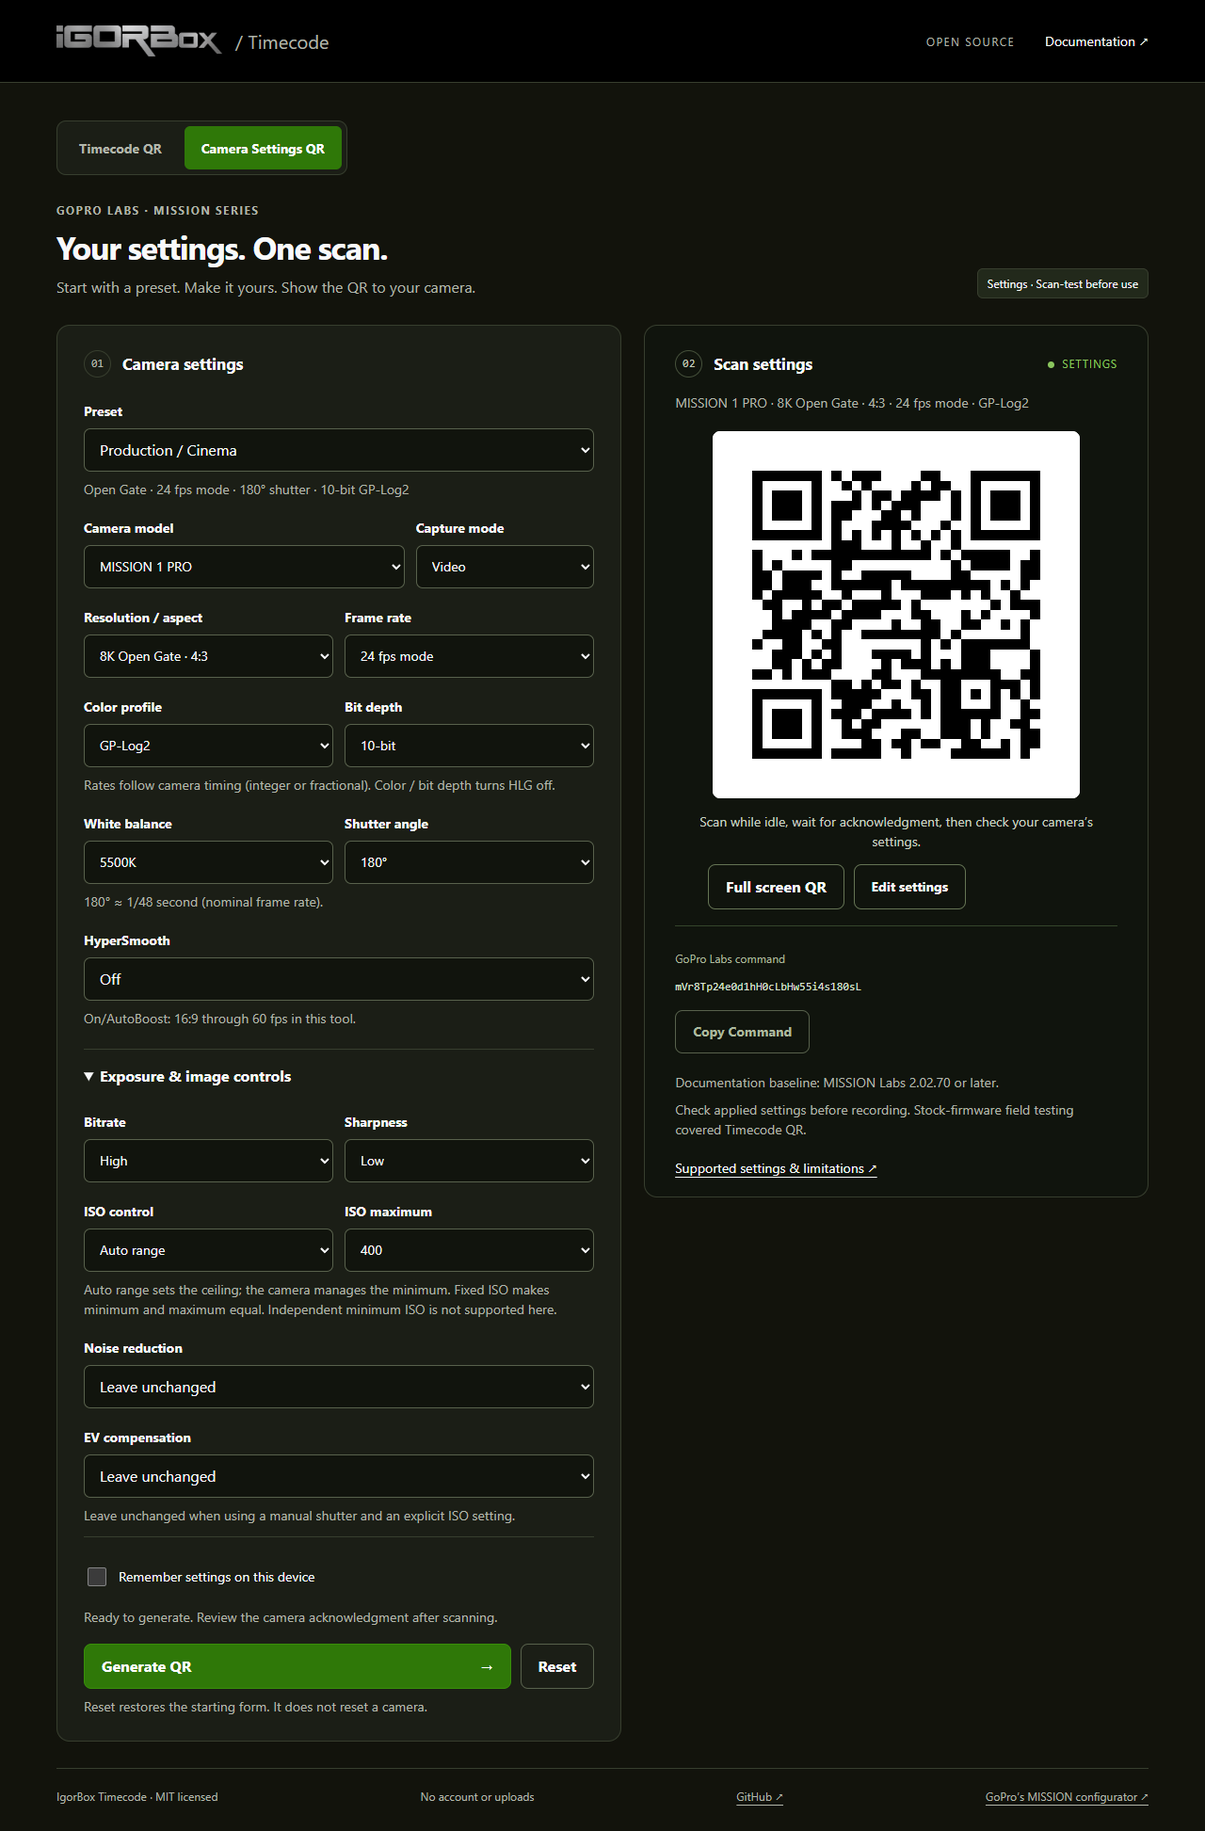
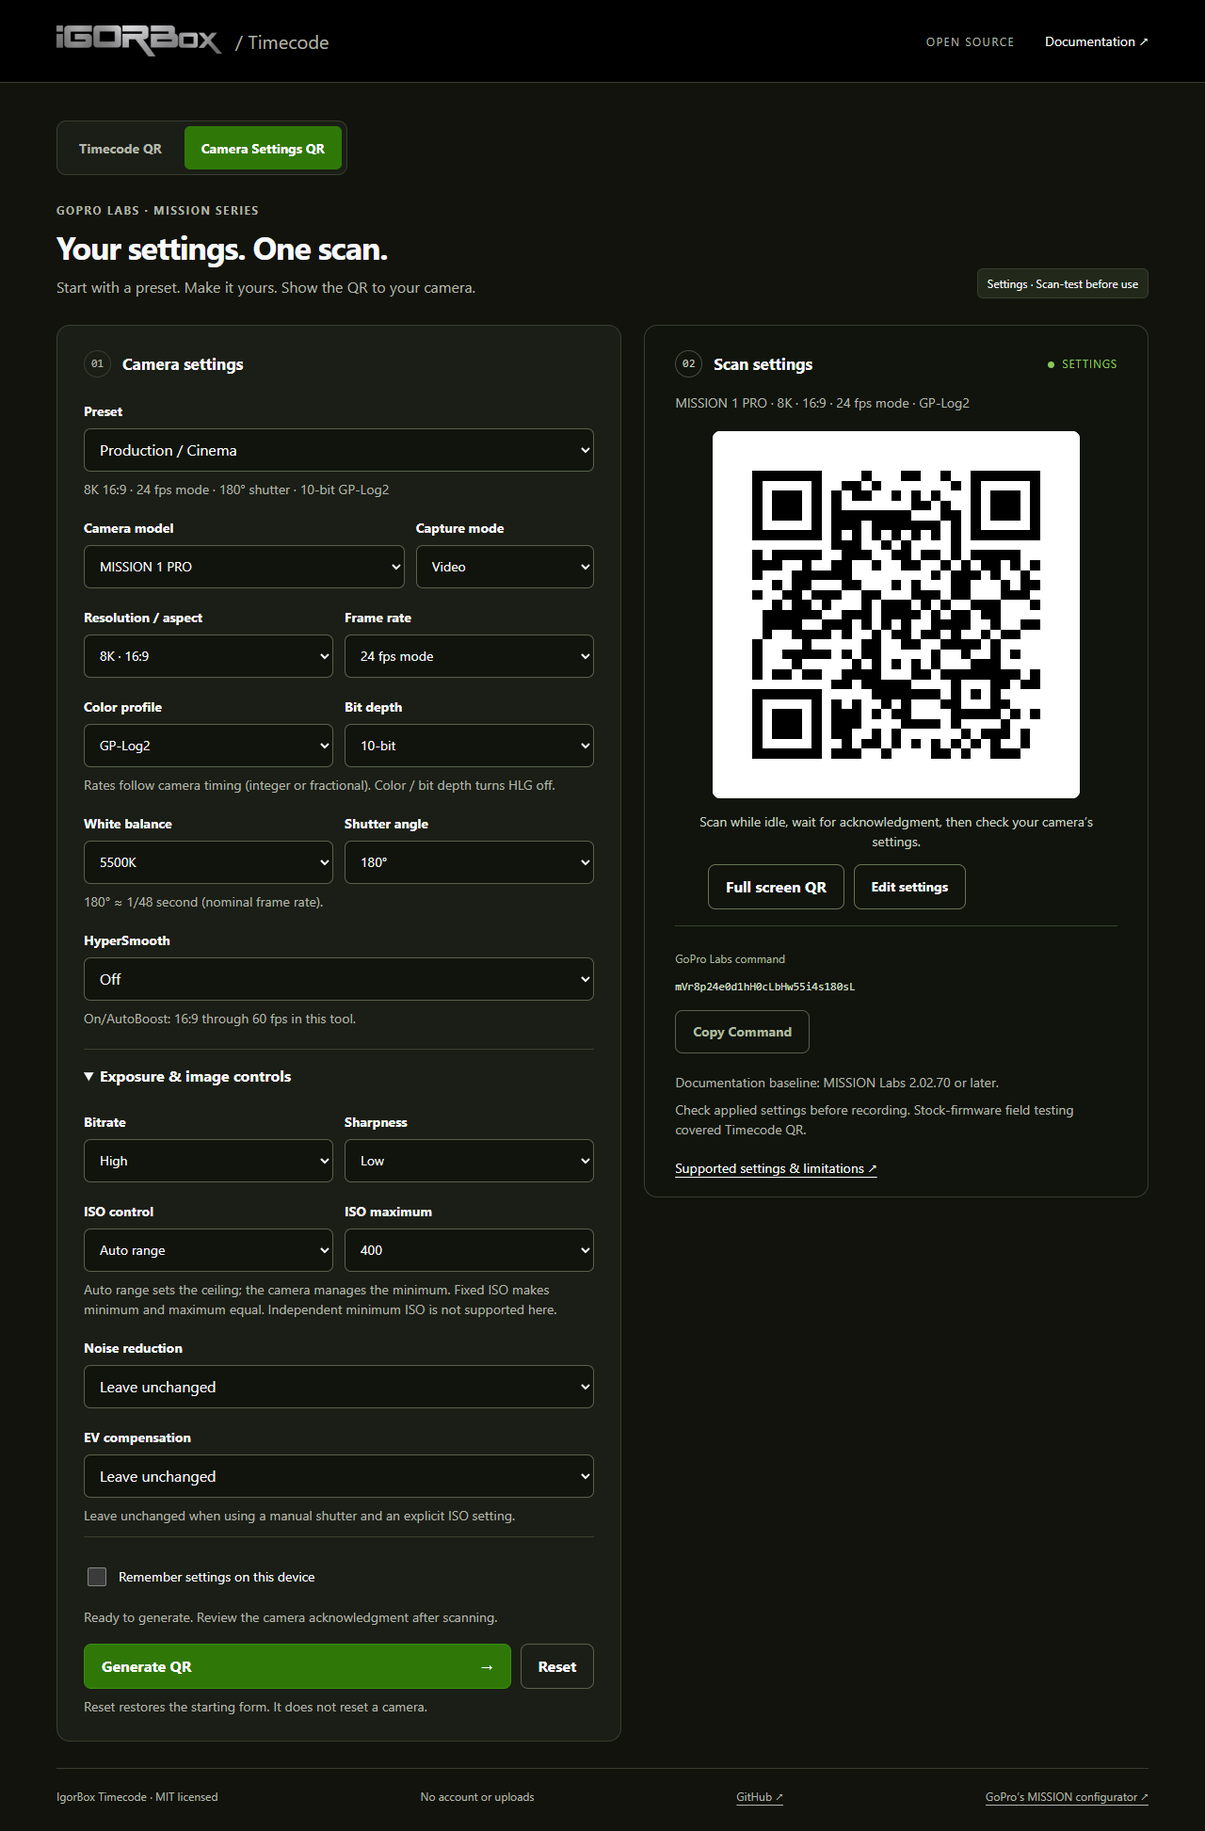
Default camera presets to 16:9 and clarify ILS lens support

diff --git a/public/guide.html b/public/guide.html
@@ -85,14 +85,15 @@
   <h2 id="camera-settings">Camera Settings QR</h2>
   <p><a href="./settings.html">Open Camera Settings QR</a> to configure a MISSION 1, MISSION 1 PRO or MISSION 1 PRO ILS. This is a separate tool: it changes capture settings, while Timecode QR sets the clock. Configure capture first, then jam timecode.</p>
   <ol>
-    <li>Choose your exact camera model and a starter preset. Production / Cinema uses 8K Open Gate on PRO models and 4K Open Gate on MISSION 1. Run &amp; Gun, Slow Motion and High Frame Rate start at 4K30, 4K60 and 4K120. Custom starts with video mode only.</li>
+    <li>Choose your exact camera model and a starter preset. All defaults use 16:9: Production / Cinema starts at 8K24; Run &amp; Gun at 8K30; Slow Motion at 4K60; and High Frame Rate at 4K120. Custom starts at 4K30 with other fields unchanged. Open Gate remains an editable option on supported models.</li>
     <li>Edit any field. “Leave unchanged” omits it from the command. Fields stay editable after selecting a preset; your first edit changes the preset label to Custom. Unsupported resolution/rate pairs block generation.</li>
     <li>Use Exposure &amp; image controls for ISO, bitrate, sharpness, EV and noise reduction. All four video presets use 10-bit GP-Log2, high bitrate and low sharpness. Run &amp; Gun uses auto white balance; the other presets use 5500K.</li>
     <li>Press Generate QR, show it to an idle camera, and check the applied settings on the camera. Full screen QR enlarges the view. Copy Command copies the exact text; on browsers without clipboard access it selects the text for manual copying. Editing any field clears the old QR.</li>
   </ol>
   <p><strong>Frame rate and shutter:</strong> the rate menu sends GoPro’s camera-mode labels, such as <code>p24</code>. Actual capture can be integer or fractional according to the camera’s existing timing settings. The tool does not change ALLI/24HZ. The supported <code>s180</code> shutter-angle command corresponds to approximately 1/48, 1/120 or 1/240 second at nominal 24, 60 or 120 fps. Set exact integer timing on the camera if required, then confirm a test clip’s metadata.</p>
   <p><strong>ISO and color:</strong> MISSION’s documented standard controls offer an auto ISO ceiling or fixed ISO. A separate minimum ISO is not sent. GP-Log2 requires an explicit 10-bit selection. Setting color or bit depth also sends <code>hH0</code> to turn HLG off. EV is omitted from the presets and cannot be combined here with a manual shutter and an explicit ISO selection.</p>
-  <p><strong>Coverage:</strong> the app supports the documented regular resolution/rate pairs through 240 fps. HyperSmooth On/AutoBoost is offered for 16:9 modes through 60 fps; other stabilization combinations are outside this tool’s verified coverage, not necessarily camera limitations. ILS users must confirm a rectilinear prime lens before enabling HyperSmooth. Run &amp; Gun starts with stabilization off on ILS. PRO and ILS share capture-rate definitions, with this separate lens check.</p>
+  <p><strong>Coverage:</strong> the app supports the documented regular resolution/rate pairs through 240 fps. HyperSmooth On/AutoBoost is offered for 16:9 modes through 60 fps; other stabilization combinations are outside this tool’s verified coverage, not necessarily camera limitations. ILS users must confirm a supported lens and its camera setup before enabling HyperSmooth. Run &amp; Gun starts with stabilization off on ILS. PRO and ILS share capture-rate definitions, with this separate lens check.</p>
+  <p id="ils-lenses"><strong>ILS lens compatibility:</strong> the checkbox is only for MISSION 1 PRO ILS and confirms that your interchangeable lens is supported for HyperSmooth. It does not configure a lens profile. “Rectilinear” means straight lines remain straight rather than having a fisheye projection; “prime” means a fixed focal length rather than a zoom. GoPro’s current <a href="https://investor.gopro.com/press-releases/press-release-details/2026/GoPro-Launches-MISSION-1-PRO-ILS-the-Worlds-Smallest-Most-Rugged-Compact-Cinema-Camera-with-Interchangeable-Lenses/default.aspx">ILS lens guidance, footnote 3</a> lists rectilinear MFT lenses from 6–500mm (tested up to 50mm, with performance beyond that varying) and five profiled fisheyes: Laowa 4mm f/2.8, 7Artisans 6mm f/2, 7Artisans 7.5mm f/2.8, Brightin Star 7.5mm f/2.8 and Meike 7.5mm f/2.8. Check the guidance and configure your lens on-camera before enabling stabilization.</p>
   <p><strong>Photo:</strong> switching to Photo exposes RAW output, white balance and EV only. Video controls are hidden and not emitted. Set photo resolution, shutter and ISO on the camera. Returning to Video restores the draft form and leaves the QR off.</p>
   <p><strong>Firmware and scope:</strong> command research was checked on 11 September 2026 against GoPro’s <a href="https://gopro.github.io/labs/control/mission/">MISSION configurator</a>, <a href="https://gopro.github.io/labs/control/settings/">settings reference</a>, <a href="https://gopro.com/en/us/shop/buy-cameras/mission-1-series">model specifications</a> and <a href="https://gopro.github.io/labs/control/notes/">release notes</a>. The documented baseline is MISSION Labs 2.02.70 or later, or ILS Labs 3.00.70 or later. The earlier successful stock-firmware shoot verified Timecode QR; the new settings tool has software and browser validation and needs a camera scan test. This does not mean stock firmware rejects all settings commands.</p>
   <p>Max/custom Mbps bitrate, HLG-on profiles, direct shutter-speed extensions, experimental independent ISO limits, generic HERO/MAX profiles, burst/480+ fps modes and camera factory-reset commands are omitted. Their mode-specific behavior is not covered reliably here. In particular, the ILS release notes removed EXPQ/EXPN/EXPX while broken. The tool sends no record, erase, network, date/time, calibration or persistent metadata commands.</p>

diff --git a/public/settings-presets.js b/public/settings-presets.js
@@ -5,19 +5,18 @@
 })(typeof globalThis !== 'undefined' ? globalThis : this, function (C) {
   'use strict';
   const definitions = Object.freeze({
-    cinema: Object.freeze({ label: 'Production / Cinema', description: 'Open Gate · 24 fps mode · 180° shutter · 10-bit GP-Log2', settings: Object.freeze({ resolution: '8k-open', frameRate: '24', whiteBalance: '5500', shutter: '180', isoMax: '400', stabilization: 'off' }) }),
-    run: Object.freeze({ label: 'Run & Gun', description: '4K30 with automatic exposure, auto white balance and stabilization.', settings: Object.freeze({ resolution: '4k', frameRate: '30', whiteBalance: 'auto', shutter: 'auto', isoMax: '1600', stabilization: 'on' }) }),
+    cinema: Object.freeze({ label: 'Production / Cinema', description: '8K 16:9 · 24 fps mode · 180° shutter · 10-bit GP-Log2', settings: Object.freeze({ resolution: '8k', frameRate: '24', whiteBalance: '5500', shutter: '180', isoMax: '400', stabilization: 'off' }) }),
+    run: Object.freeze({ label: 'Run & Gun', description: '8K30 16:9 with automatic exposure, auto white balance and stabilization.', settings: Object.freeze({ resolution: '8k', frameRate: '30', whiteBalance: 'auto', shutter: 'auto', isoMax: '1600', stabilization: 'on' }) }),
     slow: Object.freeze({ label: 'Slow Motion', description: '4K60 with 180° shutter (about 1/120 second).', settings: Object.freeze({ resolution: '4k', frameRate: '60', whiteBalance: '5500', shutter: '180', isoMax: '800', stabilization: 'off' }) }),
     high: Object.freeze({ label: 'High Frame Rate', description: '4K120 with 180° shutter (about 1/240 second).', settings: Object.freeze({ resolution: '4k', frameRate: '120', whiteBalance: '5500', shutter: '180', isoMax: '1600', stabilization: 'off' }) }),
-    custom: Object.freeze({ label: 'Custom', description: 'Start with video mode only. Leave a field unchanged to omit it from the QR.', settings: Object.freeze({}) })
+    custom: Object.freeze({ label: 'Custom', description: 'Start at 4K30 16:9; other settings are unchanged.', settings: Object.freeze({ resolution: '4k', frameRate: '30' }) })
   });
   function resolve(id, model) {
     if (!Object.hasOwn(definitions, id) || !Object.hasOwn(C.models, model)) throw new Error('Unknown preset or camera model.');
     const blank = Object.fromEntries(Object.keys(C.options).map(key => [key, null]));
     const settings = { ...blank, mode: 'video', ilsLens: false };
-    if (id === 'custom') return settings;
+    if (id === 'custom') return Object.assign(settings, definitions.custom.settings);
     Object.assign(settings, { bitDepth: '10', colorProfile: 'log2', bitrate: 'high', isoMode: 'range', sharpness: 'low' }, definitions[id].settings);
-    if (id === 'cinema') settings.resolution = C.models[model].cinemaResolution;
     // Stabilization with an ILS requires the user to identify a suitable lens.
     if (C.models[model].ils && id === 'run') settings.stabilization = 'off';
     return settings;

diff --git a/public/settings-capabilities.js b/public/settings-capabilities.js
@@ -13,9 +13,9 @@
   const baseModes = { '8k': low, '4k': fast, '4k-open': fast, '1080': high, '1440': high, '4k-vertical': ['25', '30'], '1080-vertical': ['25', '30', '50', '60'] };
   const proModes = { ...baseModes, '8k': medium, '8k-open': low, '4k': high };
   const models = {
-    'mission-1': { label: 'MISSION 1', modes: baseModes, cinemaResolution: '4k-open', ils: false, firmware: 'MISSION Labs 2.02.70 or later' },
-    'mission-1-pro': { label: 'MISSION 1 PRO', modes: proModes, cinemaResolution: '8k-open', ils: false, firmware: 'MISSION Labs 2.02.70 or later' },
-    'mission-1-pro-ils': { label: 'MISSION 1 PRO ILS', modes: proModes, cinemaResolution: '8k-open', ils: true, firmware: 'ILS Labs 3.00.70 or later' }
+    'mission-1': { label: 'MISSION 1', modes: baseModes, ils: false, firmware: 'MISSION Labs 2.02.70 or later' },
+    'mission-1-pro': { label: 'MISSION 1 PRO', modes: proModes, ils: false, firmware: 'MISSION Labs 2.02.70 or later' },
+    'mission-1-pro-ils': { label: 'MISSION 1 PRO ILS', modes: proModes, ils: true, firmware: 'ILS Labs 3.00.70 or later' }
   };
   // Values are UI identifiers. Only these literal tokens may enter a QR.
   const options = {

diff --git a/public/settings.html b/public/settings.html
@@ -72,7 +72,10 @@
           <div id="camera-stabilization-field">
             <label for="setting-stabilization">HyperSmooth</label><select id="setting-stabilization" data-setting="stabilization"></select>
             <p class="hint" id="camera-stabilization-hint">On/AutoBoost: 16:9 through 60 fps in this tool.</p>
-            <label class="check-label" id="camera-ils-label" hidden><input type="checkbox" id="camera-ils-lens"> ILS lens is a rectilinear prime</label>
+            <div id="camera-ils-label" hidden>
+              <label class="check-label"><input type="checkbox" id="camera-ils-lens" aria-describedby="camera-ils-hint"> My ILS lens is supported for HyperSmooth</label>
+              <p class="hint" id="camera-ils-hint">For the interchangeable-lens ILS only. Confirm your lens and its camera setup against <a href="./guide.html#ils-lenses">GoPro’s supported lens guidance</a>.</p>
+            </div>
           </div>
           <details class="settings-advanced" id="camera-advanced">
             <summary>Exposure &amp; image controls</summary>

diff --git a/public/settings-core.js b/public/settings-core.js
@@ -30,7 +30,7 @@
       if (settings.ev != null && shutter != null && shutter !== 'auto' && isoMode != null) errors.push('EV compensation is not offered with a manual shutter and an explicit ISO setting; leave EV unchanged.');
       if (['on', 'auto'].includes(stabilization)) {
         if (!C.stabilizationCovered(settings)) errors.push('HyperSmooth On/AutoBoost is offered here only for 16:9 modes through 60 fps. Other combinations have not been verified for this tool; choose Off or leave unchanged.');
-        if (C.models[model].ils && settings.ilsLens !== true) errors.push('ILS HyperSmooth requires a rectilinear prime lens. Confirm your lens or select Off.');
+        if (C.models[model].ils && settings.ilsLens !== true) errors.push('Confirm that your ILS lens is supported for HyperSmooth and set up on the camera, or select Off.');
       }
     }
     return errors;

diff --git a/public/settings-app.js b/public/settings-app.js
@@ -78,7 +78,7 @@
   $('camera-mode').addEventListener('change', () => {
     if ($('camera-mode').value === 'photo') {
       videoDraft = { ...settings };
-      settings = { ...P.resolve('custom', model), mode: 'photo', whiteBalance: settings.whiteBalance };
+      settings = { ...P.resolve('custom', model), mode: 'photo', resolution: null, frameRate: null, whiteBalance: settings.whiteBalance };
     } else settings = videoDraft || P.resolve('custom', model);
     preset = 'custom'; changed();
   });

diff --git a/docs/CAMERA_SETTINGS.md b/docs/CAMERA_SETTINGS.md
@@ -7,7 +7,7 @@ Research date: **2026-09-11**. This extension adds a second static page using th
[1 lines of base64/hex data omitted]
 - [Settings reference](https://gopro.github.io/labs/control/settings/) and [command language](https://gopro.github.io/labs/control/tech/) verify token spelling and ordered concatenation. Mode comes first so settings apply to the selected capture mode. Numeric FPS tokens select camera modes; they do not independently select integer versus fractional timing.
 - [MISSION model comparison](https://gopro.com/en/us/shop/buy-cameras/mission-1-series) provides separate MISSION 1 / PRO / PRO ILS resolution-rate lists. These become explicit capability tables, not a maximum-rate heuristic. Vertical modes are also present in the official MISSION configurator.
-- [MISSION PRO ILS announcement](https://investor.gopro.com/press-releases/press-release-details/2026/GoPro-Launches-MISSION-1-PRO-ILS-the-Worlds-Smallest-Most-Rugged-Compact-Cinema-Camera-with-Interchangeable-Lenses/default.aspx) documents HyperSmooth with rectilinear prime lenses. ILS shares the PRO capture table but has a separate lens confirmation rule.
+- [MISSION PRO ILS announcement](https://investor.gopro.com/press-releases/press-release-details/2026/GoPro-Launches-MISSION-1-PRO-ILS-the-Worlds-Smallest-Most-Rugged-Compact-Cinema-Camera-with-Interchangeable-Lenses/default.aspx) lists supported rectilinear MFT lenses and five specifically profiled fisheye lenses in footnote 3. The checkbox confirms a supported lens and camera setup; it is not limited to prime lenses. ILS shares the PRO capture table but has a separate lens confirmation rule.
 - [Release notes](https://gopro.github.io/labs/control/notes/) record the MISSION 2.02.70 Protune/metadata fix, the earlier photo WB/EV fix, and the ILS 3.00.70 removal of broken EXPQ/EXPN/EXPX. These are the documentation baselines for this tool. A blanket claim that stock firmware requires Labs for timecode would contradict the project's field report; no such claim is made.
 - [Extensions](https://gopro.github.io/labs/control/extensions/) distinguishes temporary/permanent metadata and documents ALLI/24HZ. This first settings tool emits no metadata extensions. Existing camera timing therefore remains in effect.
 
@@ -39,24 +39,24 @@ Stabilization coverage is intentionally narrower than the camera's possible feat
 
 ## Starter presets
 
-Every preset resolves into a fresh, editable form. Editing any field changes the selector to Custom. The four configured video presets all use 10-bit GP-Log2, High bitrate and Low sharpness. Noise reduction and EV are left unchanged. ISO is an auto ceiling, not an asserted 100 minimum.
+Every preset defaults to 16:9 and resolves into a fresh, editable form. Open Gate remains available as a manual choice. Editing any field changes the selector to Custom. The four configured video presets all use 10-bit GP-Log2, High bitrate and Low sharpness. Noise reduction and EV are left unchanged. ISO is an auto ceiling, not an asserted 100 minimum.
 
 | Preset | Resolution / rate mode | Shutter | WB | ISO ceiling | HyperSmooth |
 |---|---|---|---|---|---|
-| Production / Cinema | 8K Open Gate / 24; 4K Open Gate on MISSION 1 | 180° | 5500K | 400 | Off |
-| Run & Gun | 4K 16:9 / 30 | Auto | Auto | 1600 | On; Off initially on ILS |
+| Production / Cinema | 8K 16:9 / 24 | 180° | 5500K | 400 | Off |
+| Run & Gun | 8K 16:9 / 30 | Auto | Auto | 1600 | On; Off initially on ILS |
 | Slow Motion | 4K 16:9 / 60 | 180° | 5500K | 800 | Off |
 | High Frame Rate | 4K 16:9 / 120 | 180° | 5500K | 1600 | Off |
-| Custom | Video mode only | Unchanged | Unchanged | Unchanged | Unchanged |
+| Custom | 4K 16:9 / 30 | Unchanged | Unchanged | Unchanged | Unchanged |
 
 Exact commands for **MISSION 1 PRO**:
 
 ```text
 Production / Cinema
-mVr8Tp24e0d1hH0cLbHw55i4s180sL
+mVr8p24e0d1hH0cLbHw55i4s180sL
 
 Run & Gun
-mVr4p30e1d1hH0cLbHwAi16s0sL
+mVr8p30e1d1hH0cLbHwAi16s0sL
 
 Slow Motion
 mVr4p60e0d1hH0cLbHw55i8s180sL
@@ -65,10 +65,10 @@ High Frame Rate
 mVr4p120e0d1hH0cLbHw55i16s180sL
 
 Custom
-mV
+mVr4p30
 ```
 
-MISSION 1 Cinema substitutes `r4T` for `r8T`. ILS Run & Gun substitutes `e0` for `e1` until the user chooses stabilization and confirms a suitable lens. Photo with RAW, 5500K and +0.5 EV produces `mPrw55x.5`.
+Cinema uses the same 8K 16:9 / 24 command on all three supported models. ILS Run & Gun substitutes `e0` for `e1` until the user chooses stabilization and confirms a suitable lens. Photo with RAW, 5500K and +0.5 EV produces `mPrw55x.5`.
 
 **24 does not promise 24.000:** `p24` can select 23.976 with the camera's default broadcast timing. The 180° shutter hint is calculated from the nominal rate; at 23.976 it is approximately 1/47.952 second. Configure exact integer timing separately and check clip metadata. These commands do not change timecode, ALLI, 24HZ or TCAL.
 

diff --git a/docs/VALIDATION.md b/docs/VALIDATION.md
@@ -2,6 +2,8 @@
 
 ## Camera Settings QR extension — 2026-09-11
 
+- Preset defaults now use 16:9 on all three camera models: Cinema 8K24, Run & Gun 8K30, Slow Motion 4K60, High Frame Rate 4K120 and Custom 4K30. The 34-test suite and browser checks passed again after this change, including Photo isolation from Custom’s new video defaults. The documentation screenshot was refreshed. ILS lens confirmation now follows GoPro’s current supported-lens guidance, including its specifically profiled fisheyes.
+
 - All **34** Node tests passed, including the original 23 timecode tests and 11 settings tests. Settings checks cover explicit preset command fixtures, model/resolution/rate limits, GP-Log2 depth, ISO/shutter/EV rules, ILS lens confirmation, Photo isolation, per-field command changes, malformed stored state, command injection and QR quiet zones.
 - Static validation and build passed for all three pages, including settings scripts, navigation/assets, Open Graph metadata and unchanged vendored encoder checksum.
 - Playwright checks passed using installed Edge in headless mode at 1280, 390 and 320 pixels. They exercised every preset, editing, QR invalidation, model errors, Photo/Video transitions, opt-in storage/reload/reset, ILS confirmation, native fullscreen and the CSS fallback, clipboard API handling with a test sink and manual-copy fallback, and navigation back to a live timecode QR. No page errors or horizontal overflow were observed. Desktop and mobile captures were visually inspected. This is not a physical iPad/Safari test.

diff --git a/README.md b/README.md
@@ -39,7 +39,7 @@ Use the **Timecode QR** tab for the clock workflow below. Use **Camera Settings 
 
 [Open Camera Settings QR](https://timecode.igorbox.com/settings.html). Choose MISSION 1, MISSION 1 PRO or MISSION 1 PRO ILS, pick a starting preset, then edit any field. Generate displays a large static QR and the exact command. Copy Command, Reset and fullscreen are included; changing settings clears the previous QR. Optional Remember settings stores the form locally and always restores with the QR off.
 
-Presets: **Production / Cinema**, **Run & Gun**, **Slow Motion**, **High Frame Rate** and **Custom**. Cinema starts at 8K Open Gate / 24 on PRO models (4K Open Gate on MISSION 1); the other configured presets start at 4K30, 4K60 and 4K120. Each uses 10-bit GP-Log2, High bitrate and Low sharpness. Fields remain editable.
+Presets: **Production / Cinema**, **Run & Gun**, **Slow Motion**, **High Frame Rate** and **Custom**. All preset defaults use 16:9. Cinema starts at 8K24; Run & Gun at 8K30; Slow Motion at 4K60; High Frame Rate at 4K120. Those four presets use 10-bit GP-Log2, High bitrate and Low sharpness. Custom starts at 4K30 with other settings unchanged. Fields remain editable, including Open Gate where supported.
 
 [Preview the Camera Settings QR screen](docs/images/camera-settings.png).
 
